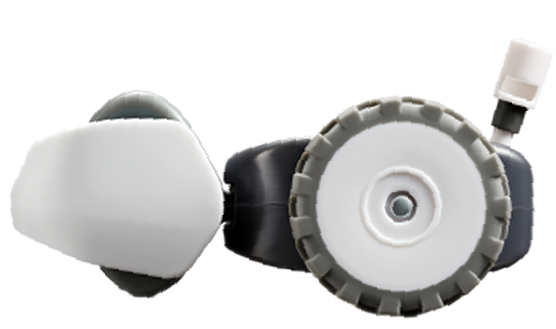
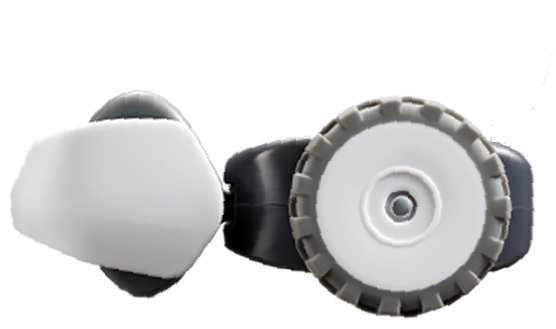
show tail rotation

Changed region(s): [[0.8867, 0.1216, 0.9784, 0.4559]]

diff --git a/qml/MousrView.qml b/qml/MousrView.qml
@@ -50,12 +50,32 @@ Rectangle {
             }
         }
 
-        Image {
+        Item {
             id: sideImage
-            source: "qrc:images/side.png"
+
             width: height
             height: robotView.height / 3
-            fillMode: Image.PreserveAspectFit
+
+            // IDK this looks crap, but close enough
+            Image {
+                id: tailImage
+
+                source: "qrc:images/mousr-tail.png"
+
+                // no idea why these values work, with rotation nothing makes sense
+                x: parent.width/1.5
+                y: -parent.height/1.5
+                transformOrigin: Item.Bottom
+                rotation: device.tailRotation
+            }
+
+
+            Image {
+                source: "qrc:images/side.png"
+                width: height
+                height: robotView.height / 3
+                fillMode: Image.PreserveAspectFit
+            }
 
             RotationAnimation on rotation {
                 direction: RotationAnimation.Shortest

diff --git a/src/mousr/MousrHandler.h b/src/mousr/MousrHandler.h
@@ -91,6 +91,7 @@ class MousrHandler : public QObject
     Q_PROPERTY(float xRotation READ xRotation NOTIFY orientationChanged)
     Q_PROPERTY(float yRotation READ yRotation NOTIFY orientationChanged)
     Q_PROPERTY(float zRotation READ zRotation NOTIFY orientationChanged)
+    Q_PROPERTY(float tailRotation READ tailRotation NOTIFY orientationChanged)
     Q_PROPERTY(bool isFlipped READ isFlipped NOTIFY orientationChanged)
 
     Q_PROPERTY(bool sensorDirty READ sensorDirty NOTIFY sensorDirtyChanged)
@@ -251,6 +252,7 @@ public:
     float xRotation() const { return m_rotation.x; }
     float yRotation() const { return m_rotation.y; }
     float zRotation() const { return m_rotation.z; }
+    float tailRotation() const { return (360. * m_tailRotation) / 255.; }
     bool isFlipped() const { return m_isFlipped; }
 
     bool sensorDirty() const { return m_sensorDirty; }
@@ -348,8 +350,12 @@ private:
         Vector3D<float> rotation;
 
         bool isFlipped;
+        uint8_t tailRotation;
 
-        uint8_t padding[6];
+        // tail related?
+        uint8_t zeroOr255;
+
+        uint8_t padding[4];
     };
     static_assert(sizeof(DeviceOrientationResponse) == 19);
 
@@ -488,6 +494,7 @@ private:
     InputState m_newInput;
 
     Vector3D<int> m_rotation{};
+    uint8_t m_tailRotation = 0;
     bool m_isFlipped = false;
 
     bool m_sensorDirty = false;

diff --git a/src/mousr/MousrHandler.cpp b/src/mousr/MousrHandler.cpp
@@ -501,11 +501,17 @@ void MousrHandler::onCharacteristicChanged(const QLowEnergyCharacteristic &chara
 
     switch(response.type){
     case DeviceOrientation: {
+        for (int i=0; i<4; i++) {
+            if (response.orientation.padding[i]) {
+                qDebug() << "orientation padding" << i << int(response.orientation.padding[i]);
+            }
+        }
         m_waitingForOrientationChange = false;
-        if (!fuzzyVectorsEqual(response.orientation.rotation, m_rotation)) {
+        if (!fuzzyVectorsEqual(response.orientation.rotation, m_rotation) || m_tailRotation != response.orientation.tailRotation) {
             //qDebug() << " + Orientation change:";
             //qDebug() << "   - x:" << m_rotation.x << "y:" << m_rotation.y << "z:" << m_rotation.z;
             m_rotation = response.orientation.rotation;
+            m_tailRotation = response.orientation.tailRotation;
             emit orientationChanged();
         }
         if (response.orientation.isFlipped != m_isFlipped) {
